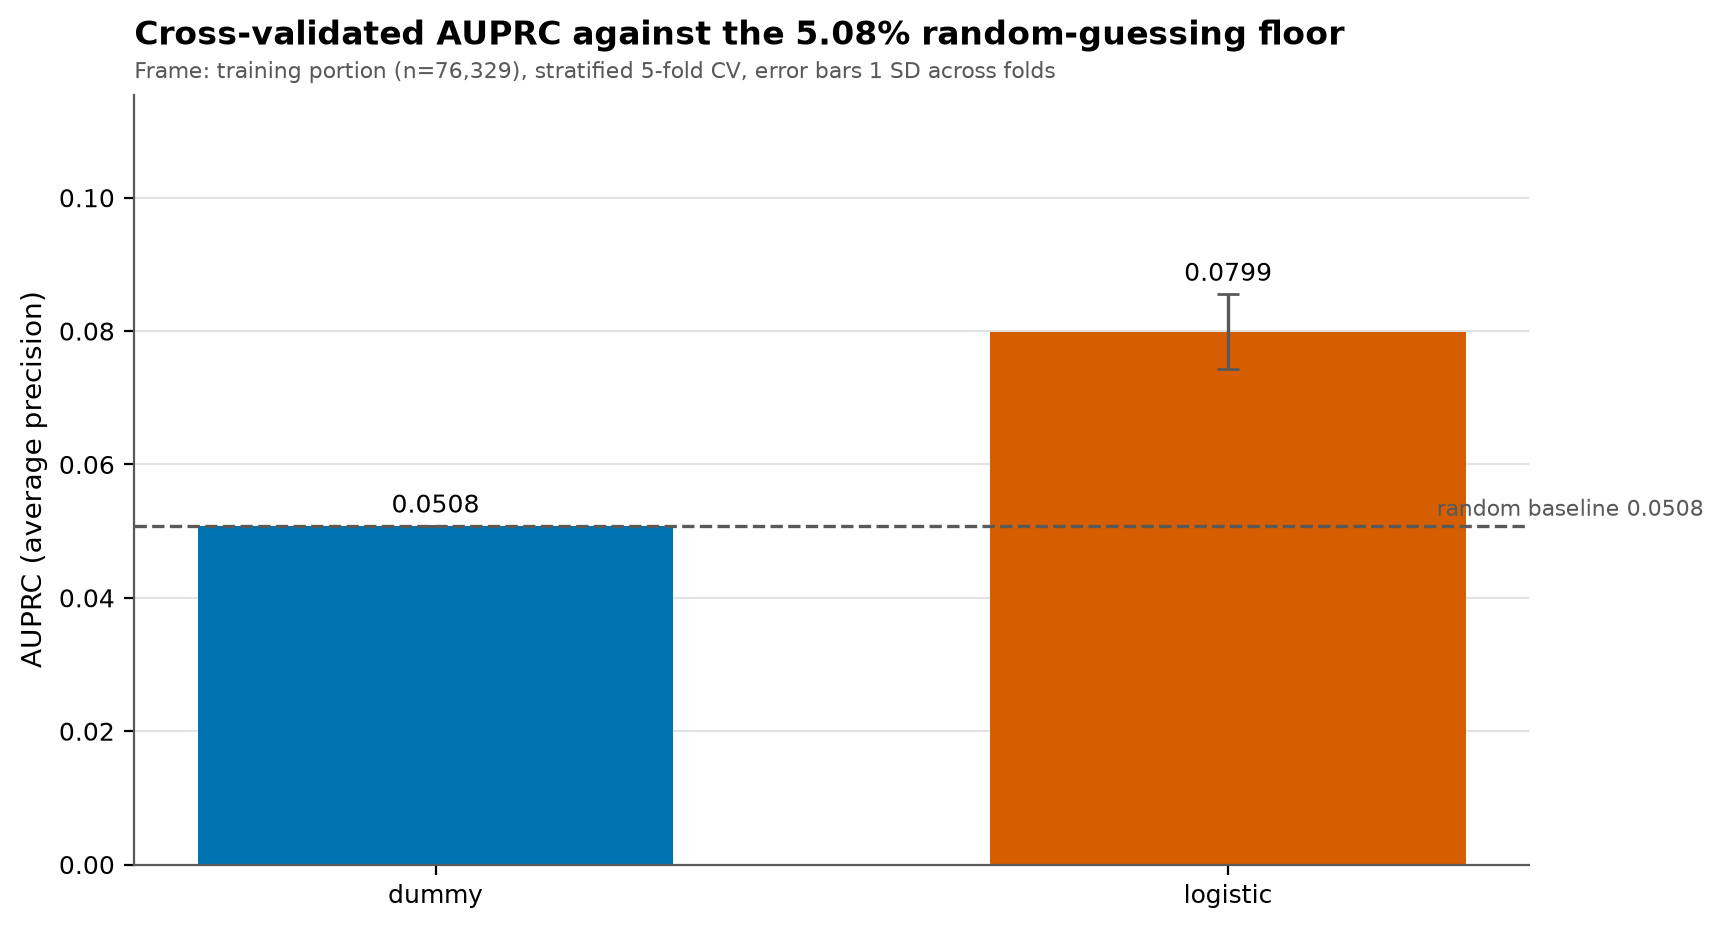
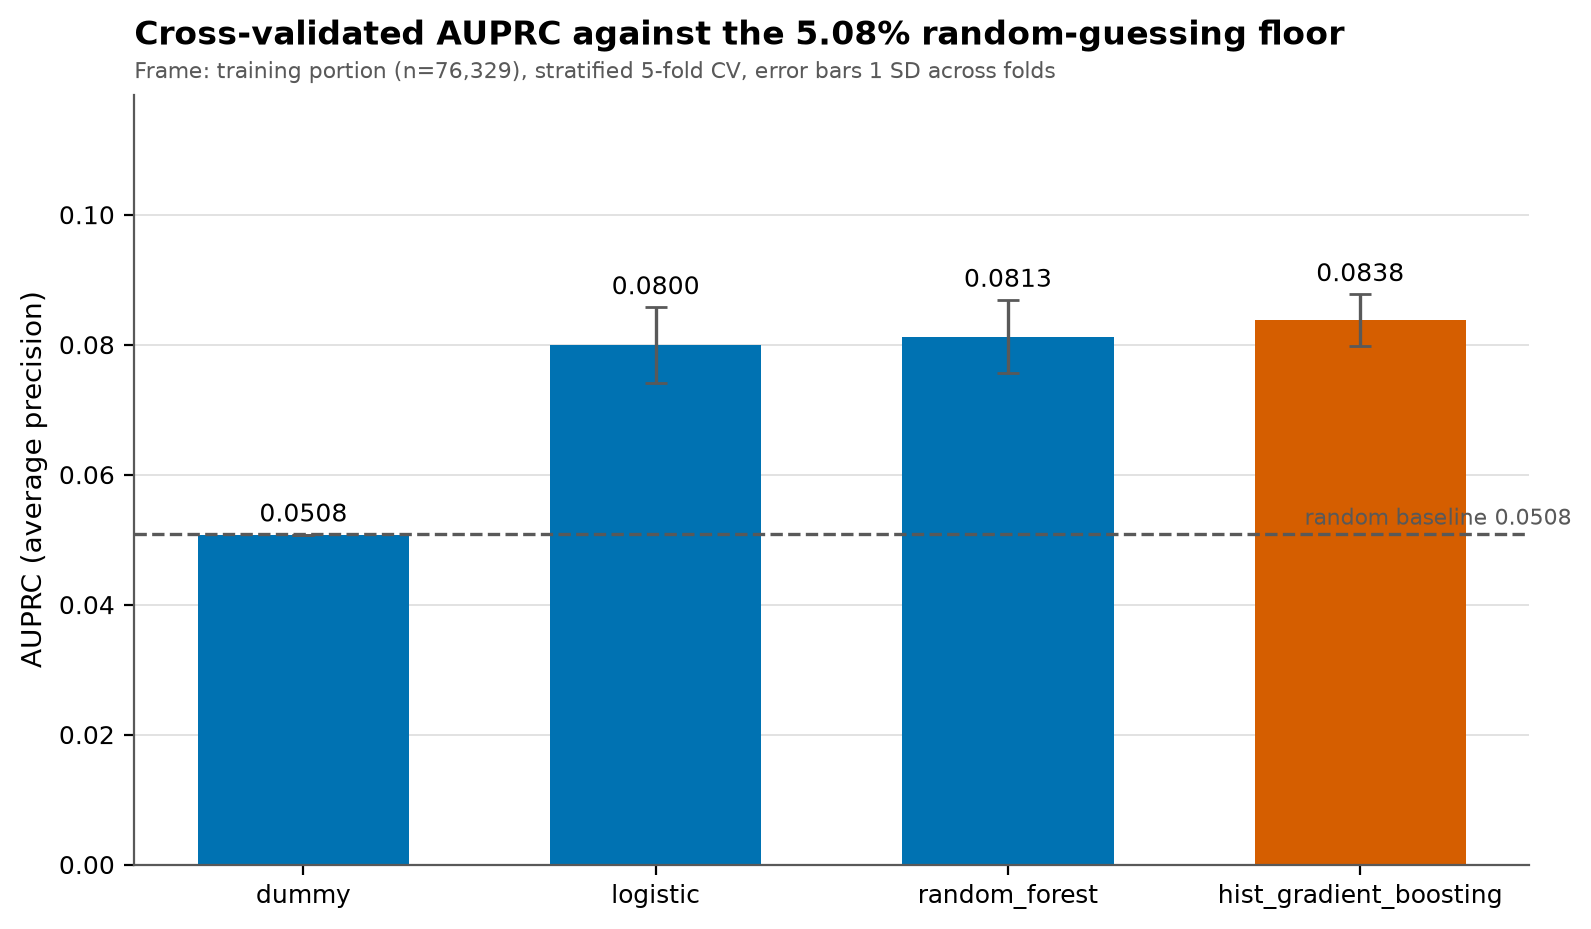
Add the random forest and gradient boosting models with their grids
CV AUPRC on the training portion (76,329 rows, stratified 5-fold), floor 0.0508:

  dummy                   0.0508 +/- 0.0000   1.00x
  logistic                0.0800 +/- 0.0058   1.57x   C=0.001
  random_forest           0.0813 +/- 0.0056   1.60x   depth=8, n=500
  hist_gradient_boosting  0.0838 +/- 0.0040   1.65x   lr=0.1, depth=3

Every model clears the floor and the boosting model is strongest, as the plan
expected. Runtime 2m51s for the whole script, inside the budget, so no grid was
shrunk.

Also writes docs/modeling/cv_grid.csv, every grid point rather than just the winner.
That is what makes the boundary question answerable, and all three real models chose
the most-regularized setting their grid offered. The grid says those boundaries are
not the same story: the logistic C curve is flat (0.0793 to 0.0800 across four orders
of magnitude, against a fold SD of 0.0058), while RF depth is steep and monotone
(0.0813 at depth 8, 0.0713 at 16, 0.0679 unlimited), so depth 8 at the edge of the
grid is a real unexplored direction rather than noise. Wider searches are out of
scope per the plan, so this is recorded for the findings rather than chased.

HGB uses the estimator's native class_weight="balanced" rather than the plan's
manual sample_weight plumbing. Same decision (cost-sensitive weighting, not
resampling), but the weights are computed inside each fold from that fold's own class
rate instead of once from the whole training portion.

diff --git a/model/src/train.py b/model/src/train.py
@@ -43,6 +43,10 @@ import matplotlib.pyplot as plt  # noqa: E402
 import numpy as np  # noqa: E402
 import pandas as pd  # noqa: E402
 from sklearn.dummy import DummyClassifier  # noqa: E402
+from sklearn.ensemble import (  # noqa: E402
+    HistGradientBoostingClassifier,
+    RandomForestClassifier,
+)
 from sklearn.linear_model import LogisticRegression  # noqa: E402
 from sklearn.model_selection import GridSearchCV, StratifiedKFold  # noqa: E402
 
@@ -52,6 +56,10 @@ from load_data import RANDOM_STATE, REPO_ROOT, load_raw, make_split  # noqa: E40
 
 MODELING_DIR = REPO_ROOT / "docs" / "modeling"
 RESULTS_PATH = MODELING_DIR / "results.csv"
+# Every grid point, not just the winner. results.csv answers "which model won"; this
+# answers "by how much, and did the grid stop too early", which is the question a
+# best-params-only table cannot. It costs nothing: the search already computed it.
+GRID_PATH = MODELING_DIR / "cv_grid.csv"
 ARTIFACTS_DIR = REPO_ROOT / "model" / "artifacts"
 
 # The campaign's documented mail cost per contact (plan, objective section). Net
@@ -90,8 +98,6 @@ class ModelSpec:
         estimator: An unfitted sklearn classifier.
         grid: Parameter grid, keyed by the pipeline's step-prefixed names.
         scale_numeric: Standardize numerics. True for the logistic model only.
-        needs_sample_weight: Pass class-balancing weights at fit time, for estimators
-            with no class_weight parameter.
         note: Anything the findings doc has to say about this row, e.g. a grid that
             was shrunk to stay inside the runtime budget.
     """
@@ -100,7 +106,6 @@ class ModelSpec:
     estimator: object
     grid: dict = field(default_factory=dict)
     scale_numeric: bool = False
-    needs_sample_weight: bool = False
     note: str = ""
 
 
@@ -129,23 +134,60 @@ def model_specs() -> list[ModelSpec]:
             # (every linear correlation with TARGET_B is under 0.06, findings task 5),
             # so this model is the calibrated, interpretable floor rather than a
             # contender, and a wide grid would buy nothing.
-            grid={"model__C": [0.01, 0.1, 1.0, 10.0]},
+            #
+            # 0.001 is here because the first run picked 0.01, the edge of the grid,
+            # and an optimum at a boundary is a grid that stopped too early rather than
+            # an answer. Heavy regularization is also what the EDA predicts: the giving
+            # summaries correlate up to r=0.91 (findings task 5), and correlated
+            # predictors are what a penalty exists to control.
+            grid={"model__C": [0.001, 0.01, 0.1, 1.0, 10.0]},
             scale_numeric=True,
         ),
+        ModelSpec(
+            name="random_forest",
+            estimator=RandomForestClassifier(
+                class_weight="balanced_subsample",
+                random_state=RANDOM_STATE,
+                # Single-threaded on purpose: GridSearchCV parallelizes across folds
+                # with n_jobs=-1, and a forest that also grabs every core would
+                # oversubscribe the machine and run slower than either alone.
+                n_jobs=1,
+            ),
+            # Depth and estimators, as the plan specifies. Unlimited depth is in the
+            # grid as the honest default rather than because it is expected to win: on
+            # a 5%-positive target a fully grown forest memorizes the majority class
+            # cheaply, and the CV score is what says whether it did.
+            grid={
+                "model__n_estimators": [200, 500],
+                "model__max_depth": [8, 16, None],
+            },
+        ),
+        ModelSpec(
+            name="hist_gradient_boosting",
+            # The plan calls for class weighting here "via sample_weight", which is the
+            # mechanism this estimator needed when it had no class_weight parameter.
+            # This scikit-learn has one, and it does the same thing (it converts the
+            # setting to balanced sample weights internally) with two advantages: the
+            # weights are computed inside each CV fold from that fold's own class rate
+            # rather than once from the whole training portion, and there is no fit
+            # param to thread through GridSearchCV and get subtly wrong. Same decision
+            # the plan made, cost-sensitive weighting rather than resampling, expressed
+            # in the estimator's own vocabulary.
+            #
+            # Native NaN handling is worth noting: the median imputation upstream is
+            # not doing this model any favours. It is there to keep every model on one
+            # feature matrix, so the comparison is about the models rather than about
+            # their preprocessing.
+            estimator=HistGradientBoostingClassifier(
+                class_weight="balanced",
+                random_state=RANDOM_STATE,
+            ),
+            grid={
+                "model__learning_rate": [0.05, 0.1],
+                "model__max_depth": [3, 6, None],
+            },
+        ),
     ]
-
-
-def fit_weights(y: pd.Series) -> np.ndarray:
-    """Class-balancing sample weights, the sklearn "balanced" formula.
-
-    For estimators that have no class_weight parameter. Weight for a class is
-    n_samples / (n_classes * n_class_samples), so at a 5.08% positive rate a responder
-    counts about 9.8x a non-responder.
-    """
-    counts = y.value_counts()
-    total = len(y)
-    weights = {label: total / (len(counts) * count) for label, count in counts.items()}
-    return y.map(weights).to_numpy()
 
 
 def run_cv(spec: ModelSpec, X: pd.DataFrame, y: pd.Series) -> dict:
@@ -165,10 +207,6 @@ def run_cv(spec: ModelSpec, X: pd.DataFrame, y: pd.Series) -> dict:
         columns=list(X.columns),
     )
 
-    fit_params = {}
-    if spec.needs_sample_weight:
-        fit_params["model__sample_weight"] = fit_weights(y)
-
     search = GridSearchCV(
         pipeline,
         param_grid=spec.grid,
@@ -179,7 +217,7 @@ def run_cv(spec: ModelSpec, X: pd.DataFrame, y: pd.Series) -> dict:
     )
 
     started = time.perf_counter()
-    search.fit(X, y, **fit_params)
+    search.fit(X, y)
     elapsed = time.perf_counter() - started
 
     best = search.cv_results_["params"].index(search.best_params_)
@@ -192,6 +230,15 @@ def run_cv(spec: ModelSpec, X: pd.DataFrame, y: pd.Series) -> dict:
         "grid_size": len(search.cv_results_["params"]),
         "note": spec.note,
         "estimator": search.best_estimator_,
+        "cv_results": pd.DataFrame(
+            {
+                "model": spec.name,
+                "params": [json.dumps(p, sort_keys=True) for p in search.cv_results_["params"]],
+                "cv_auprc_mean": search.cv_results_["mean_test_score"],
+                "cv_auprc_std": search.cv_results_["std_test_score"],
+                "rank": search.cv_results_["rank_test_score"],
+            }
+        ),
     }
 
 
@@ -214,15 +261,20 @@ def report_cv(rows: list[dict]) -> None:
 
 
 def write_results(rows: list[dict]) -> pd.DataFrame:
-    """Write docs/modeling/results.csv, one row per model.
+    """Write docs/modeling/results.csv (one row per model) and cv_grid.csv (every point).
 
     The fitted estimator is dropped: results.csv is a table of numbers for the
     findings doc, and the pipelines go to model/artifacts/ instead.
     """
     MODELING_DIR.mkdir(parents=True, exist_ok=True)
-    frame = pd.DataFrame([{k: v for k, v in row.items() if k != "estimator"} for row in rows])
+    dropped = {"estimator", "cv_results"}
+    frame = pd.DataFrame([{k: v for k, v in row.items() if k not in dropped} for row in rows])
     frame.to_csv(RESULTS_PATH, index=False)
-    print(f"Wrote {RESULTS_PATH.relative_to(REPO_ROOT)} ({len(frame)} rows)\n")
+    print(f"Wrote {RESULTS_PATH.relative_to(REPO_ROOT)} ({len(frame)} rows)")
+
+    grid = pd.concat([row["cv_results"] for row in rows], ignore_index=True)
+    grid.to_csv(GRID_PATH, index=False)
+    print(f"Wrote {GRID_PATH.relative_to(REPO_ROOT)} ({len(grid)} rows)\n")
     return frame
 
 
@@ -268,11 +320,14 @@ def figure_cv_comparison(rows: list[dict]) -> None:
         ax.text(index, mean + std + 0.002, f"{mean:.4f}", ha="center", fontsize=9)
 
     ax.axhline(AUPRC_FLOOR, color=REFERENCE, linestyle="--", linewidth=1.2)
+    # In the gap between the first two bars. Right-aligned at the axis edge collided
+    # with the last bar, and every bar except the dummy's clears the line, so the gap
+    # after the dummy is the one place on this axis that is reliably empty.
     ax.text(
-        len(names) - 0.4,
-        AUPRC_FLOOR + 0.0015,
+        0.5,
+        AUPRC_FLOOR + 0.002,
         f"random baseline {AUPRC_FLOOR:.4f}",
-        ha="right",
+        ha="center",
         fontsize=8,
         color=REFERENCE,
     )